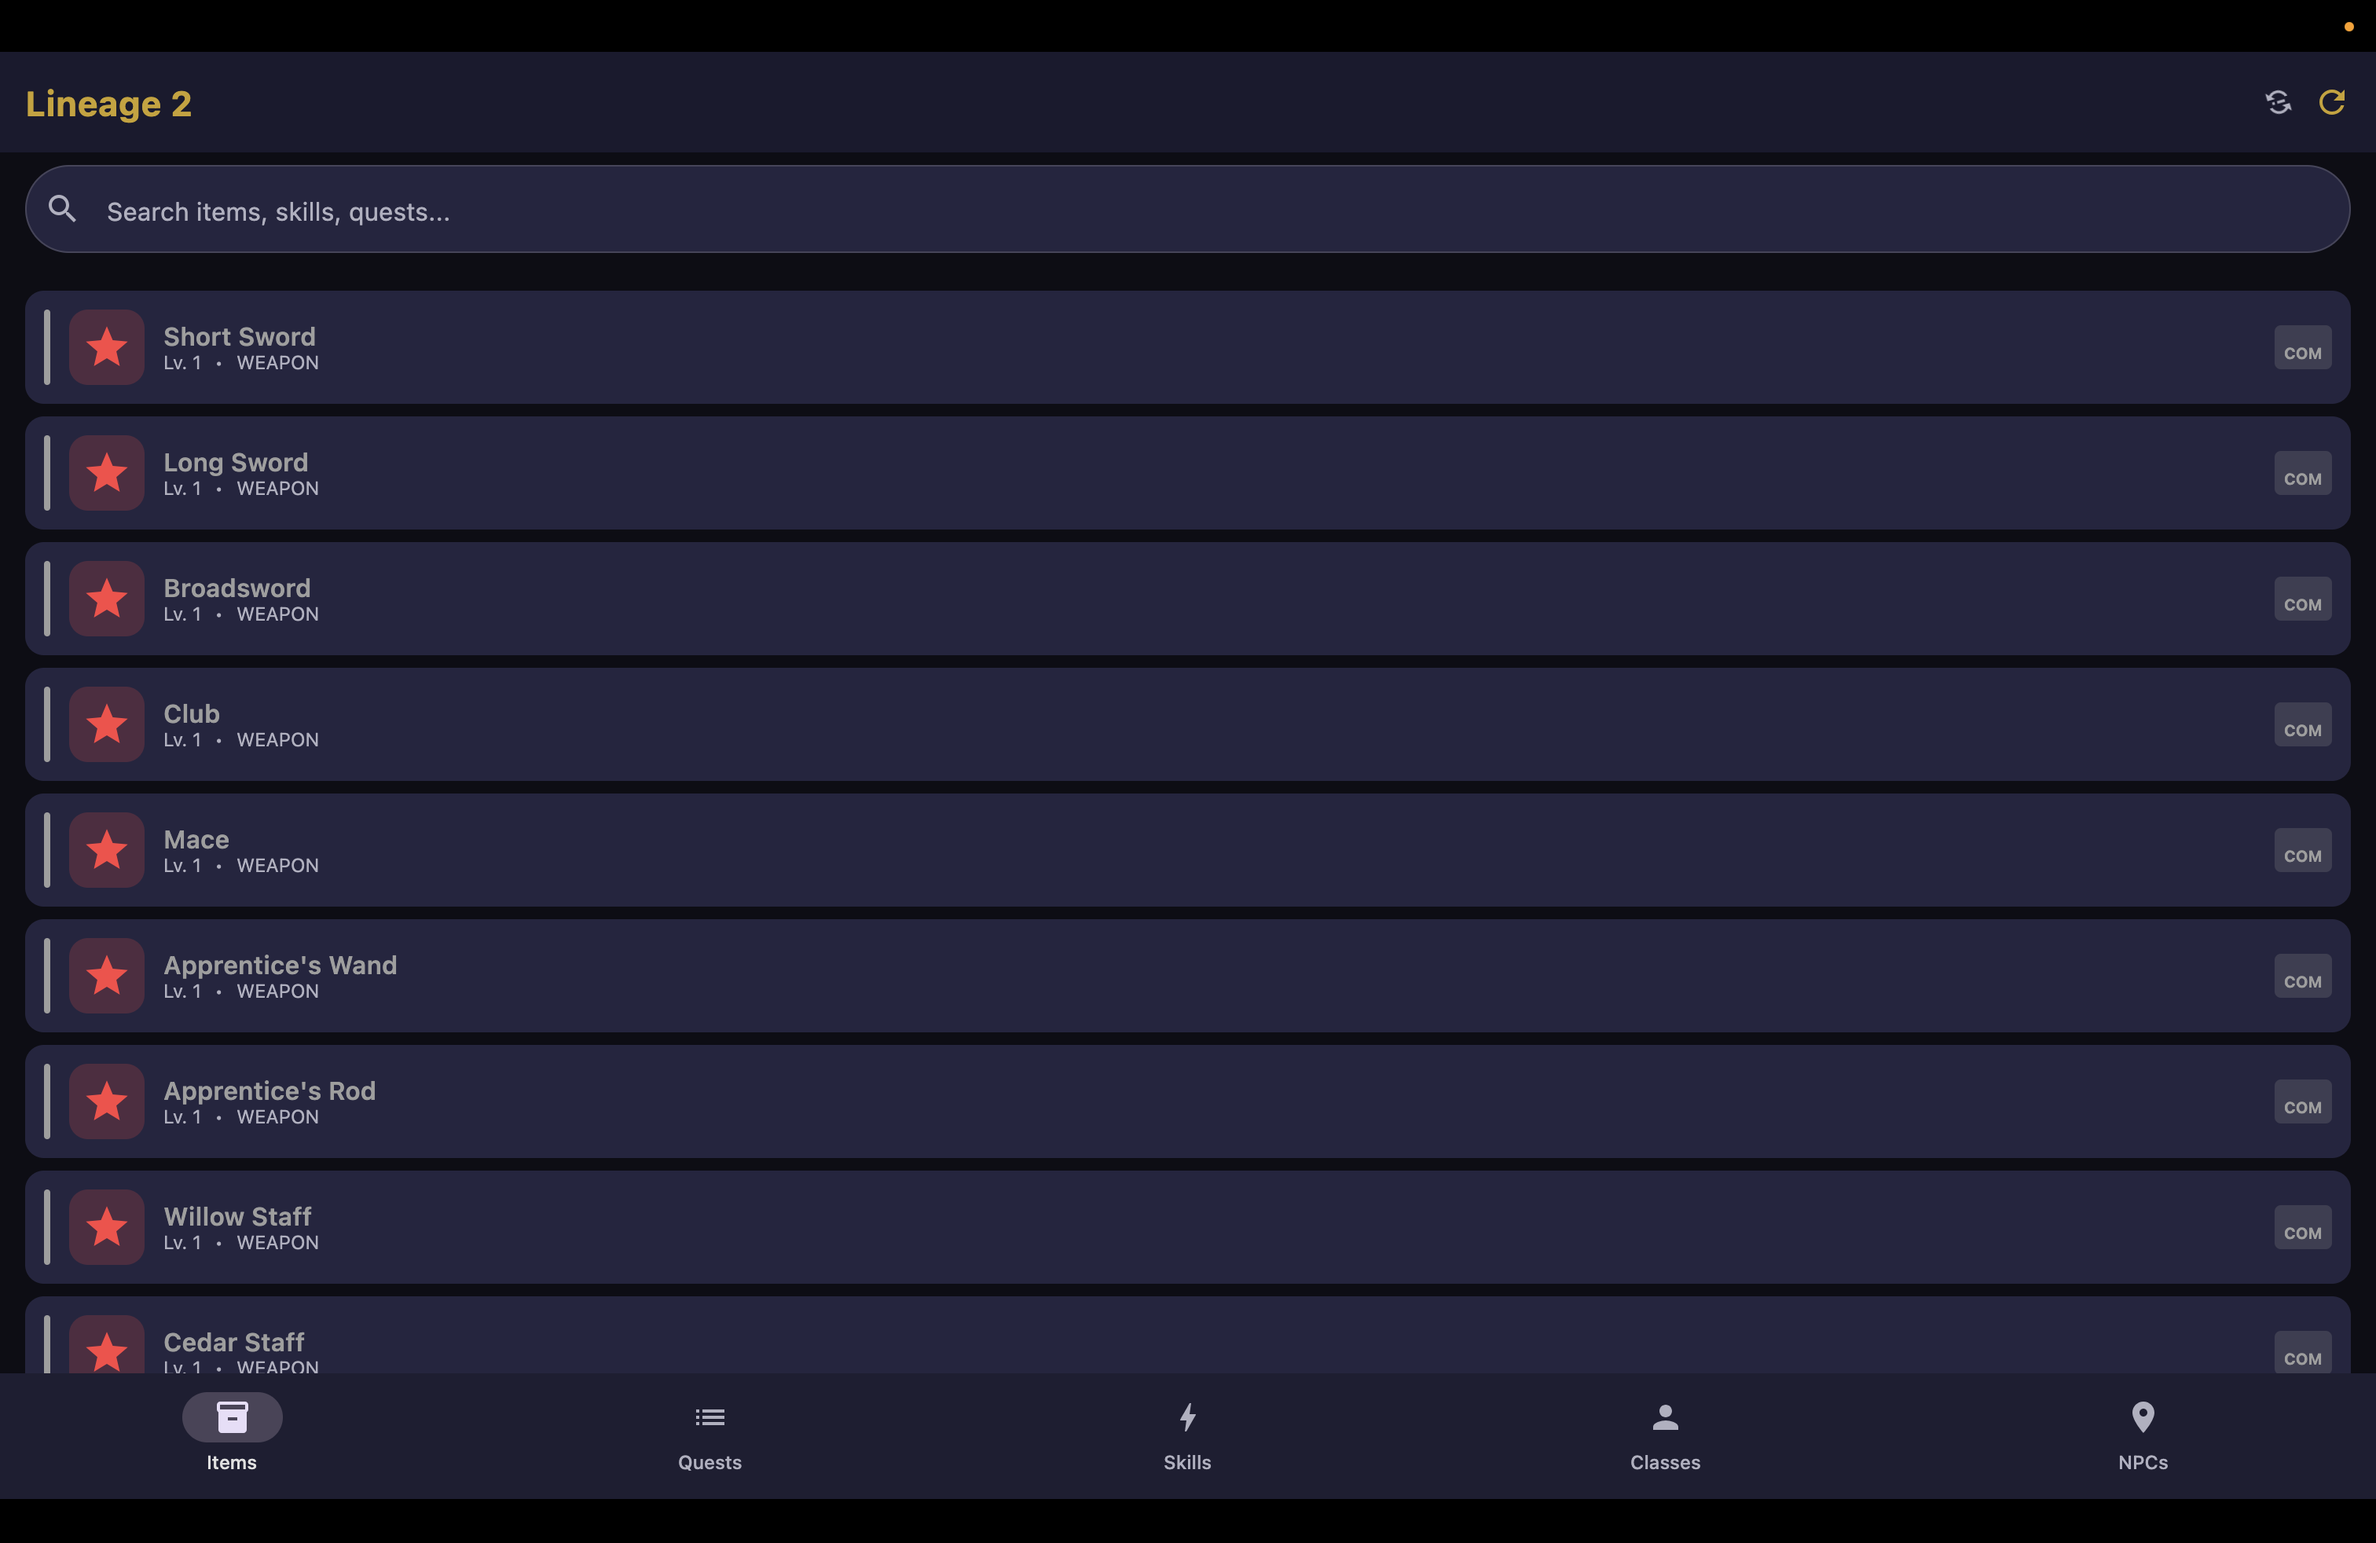
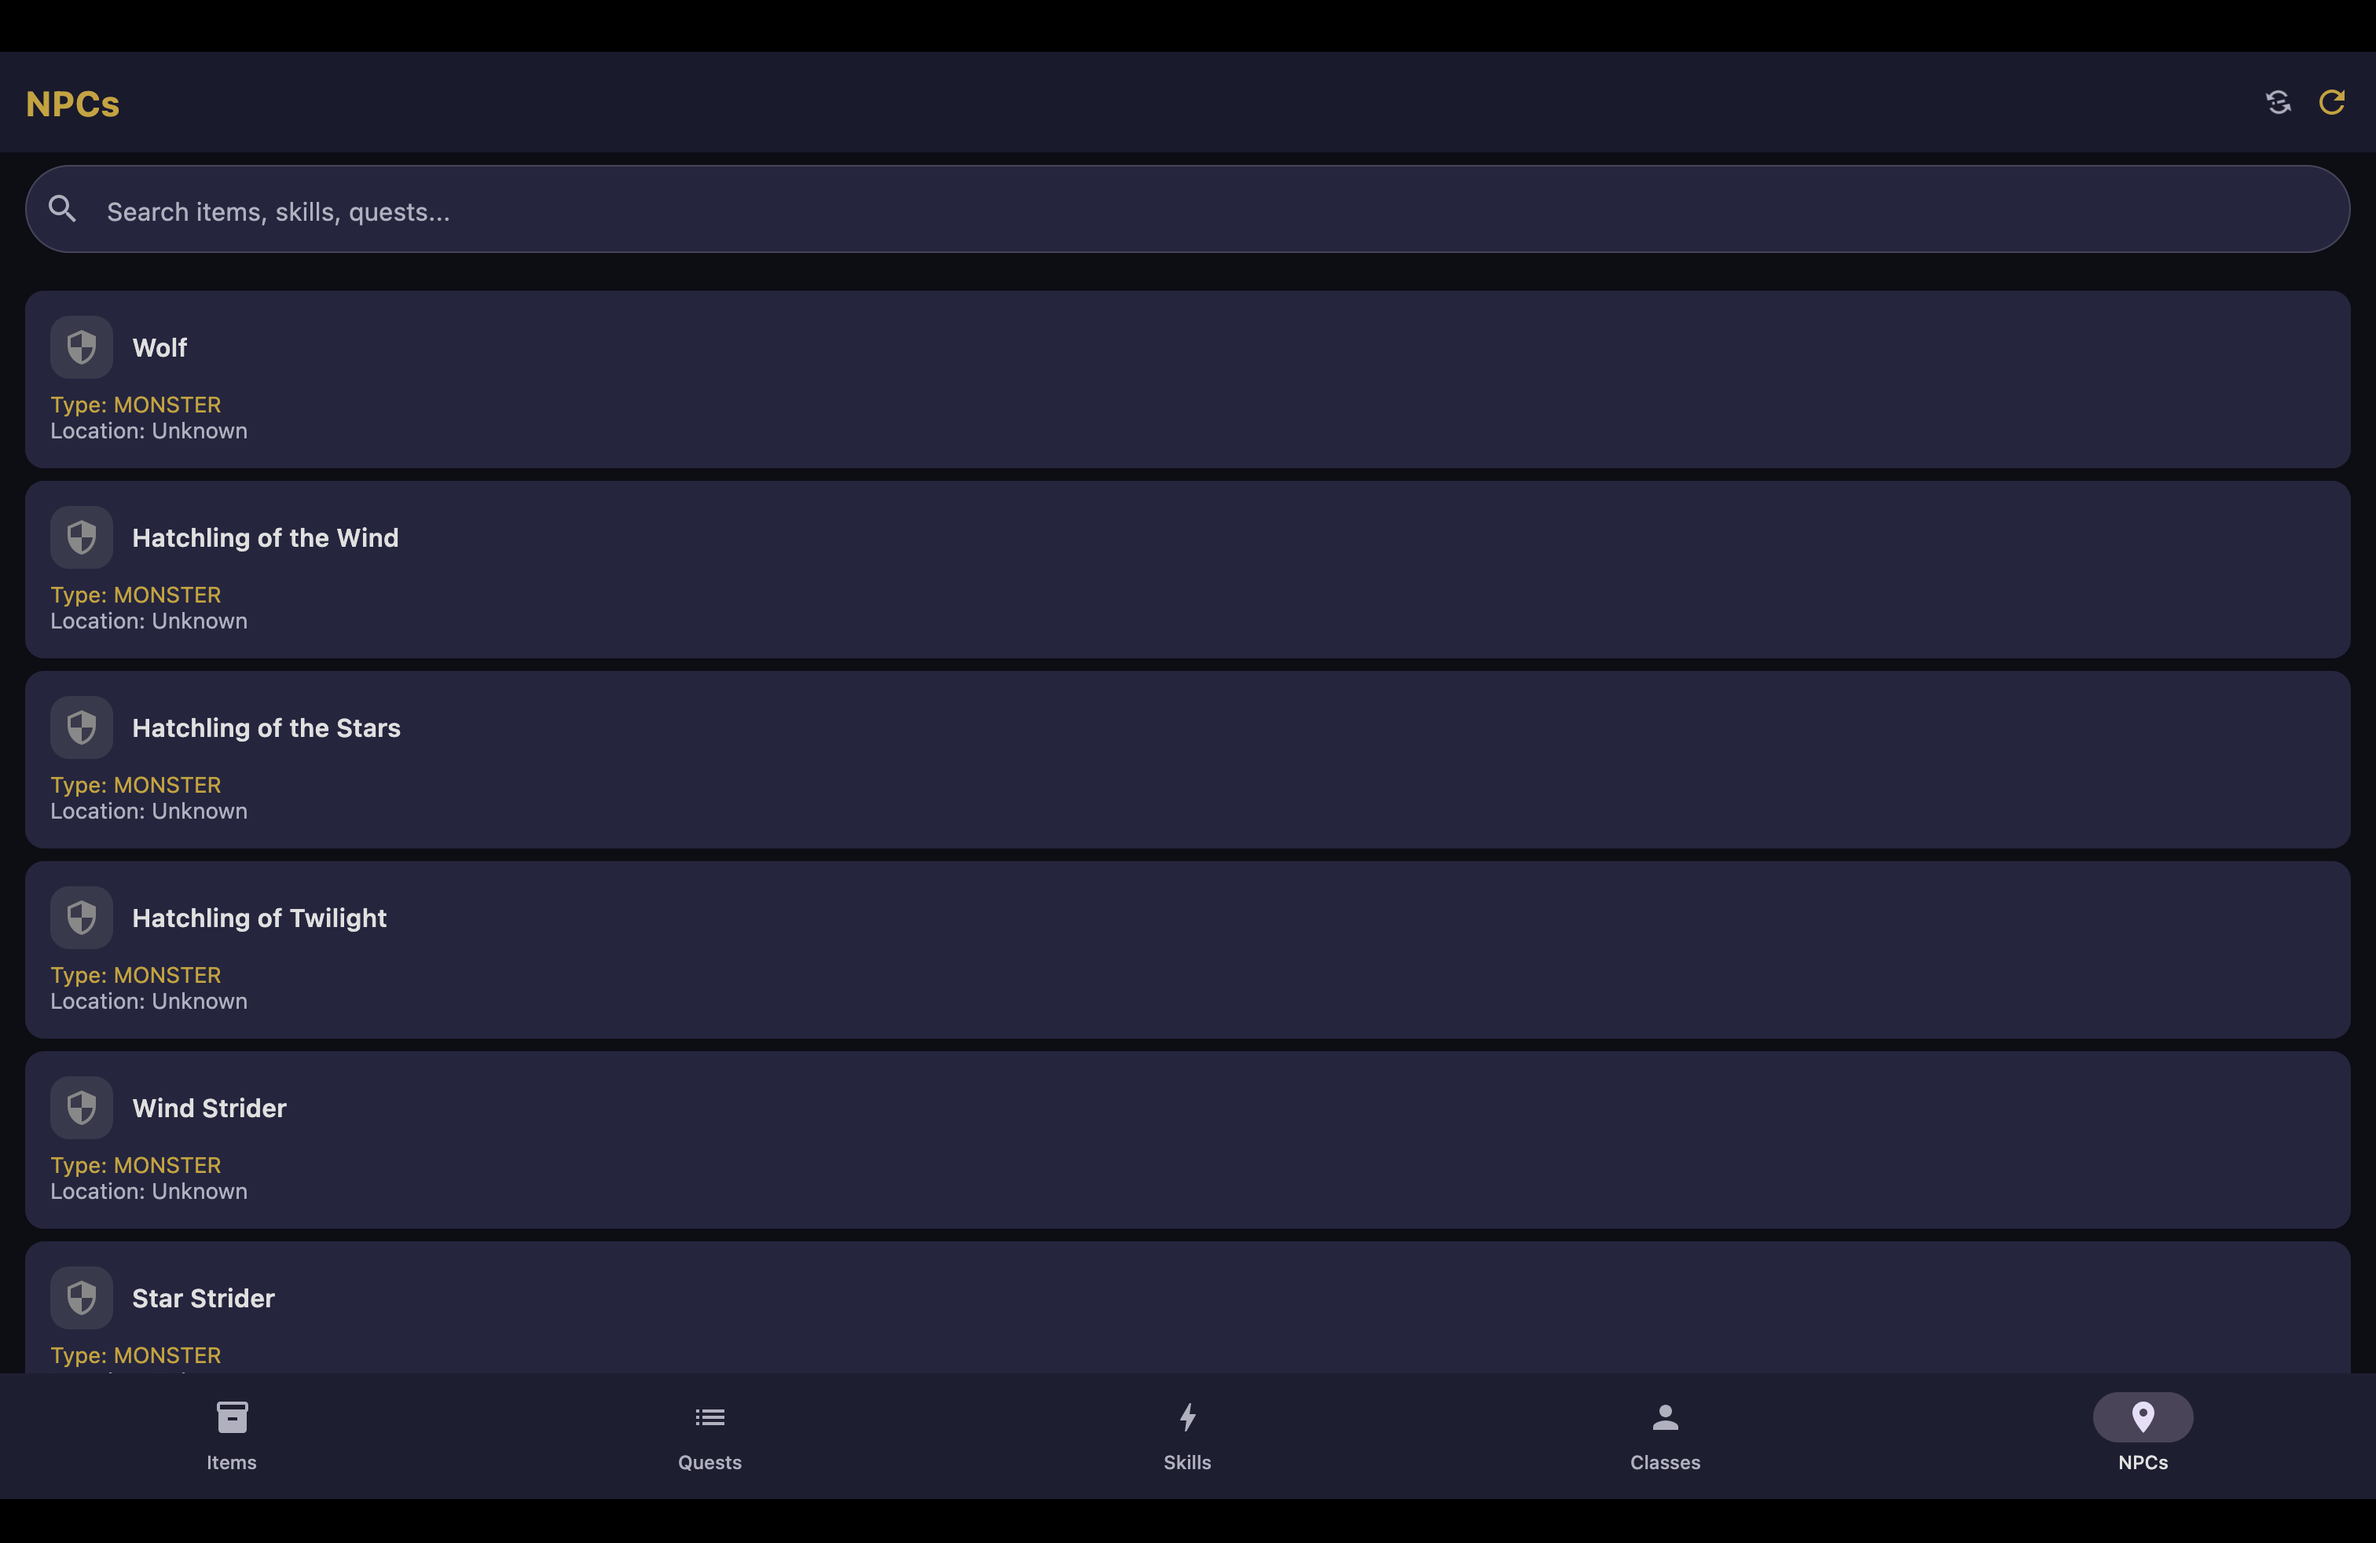
feat: add NPCs screenshot to README

Changed region(s): [[0.0, 0.1864, 0.9947, 0.9628], [0.0, 0.0621, 0.0933, 0.0932], [0.8704, 0.9007, 0.9325, 0.9318]]

diff --git a/README.md b/README.md
@@ -25,6 +25,11 @@ A comprehensive companion guide app for Lineage 2 (Interlude chronicle) with off
   <em>Desktop — Classes with class-type icons</em>
 </p>
 
+<p align="center">
+  <img src="screenshots/desktop_npcs.png" width="800" alt="Desktop NPCs Screen"/><br/>
+  <em>Desktop — NPCs with type-based icons (Quest Giver, Merchant, Boss, Monster)</em>
+</p>
+
 ### Mobile Application
 <p align="center">
   <img src="screenshots/splash0.jpg" width="200" alt="Splash Screen"/>
